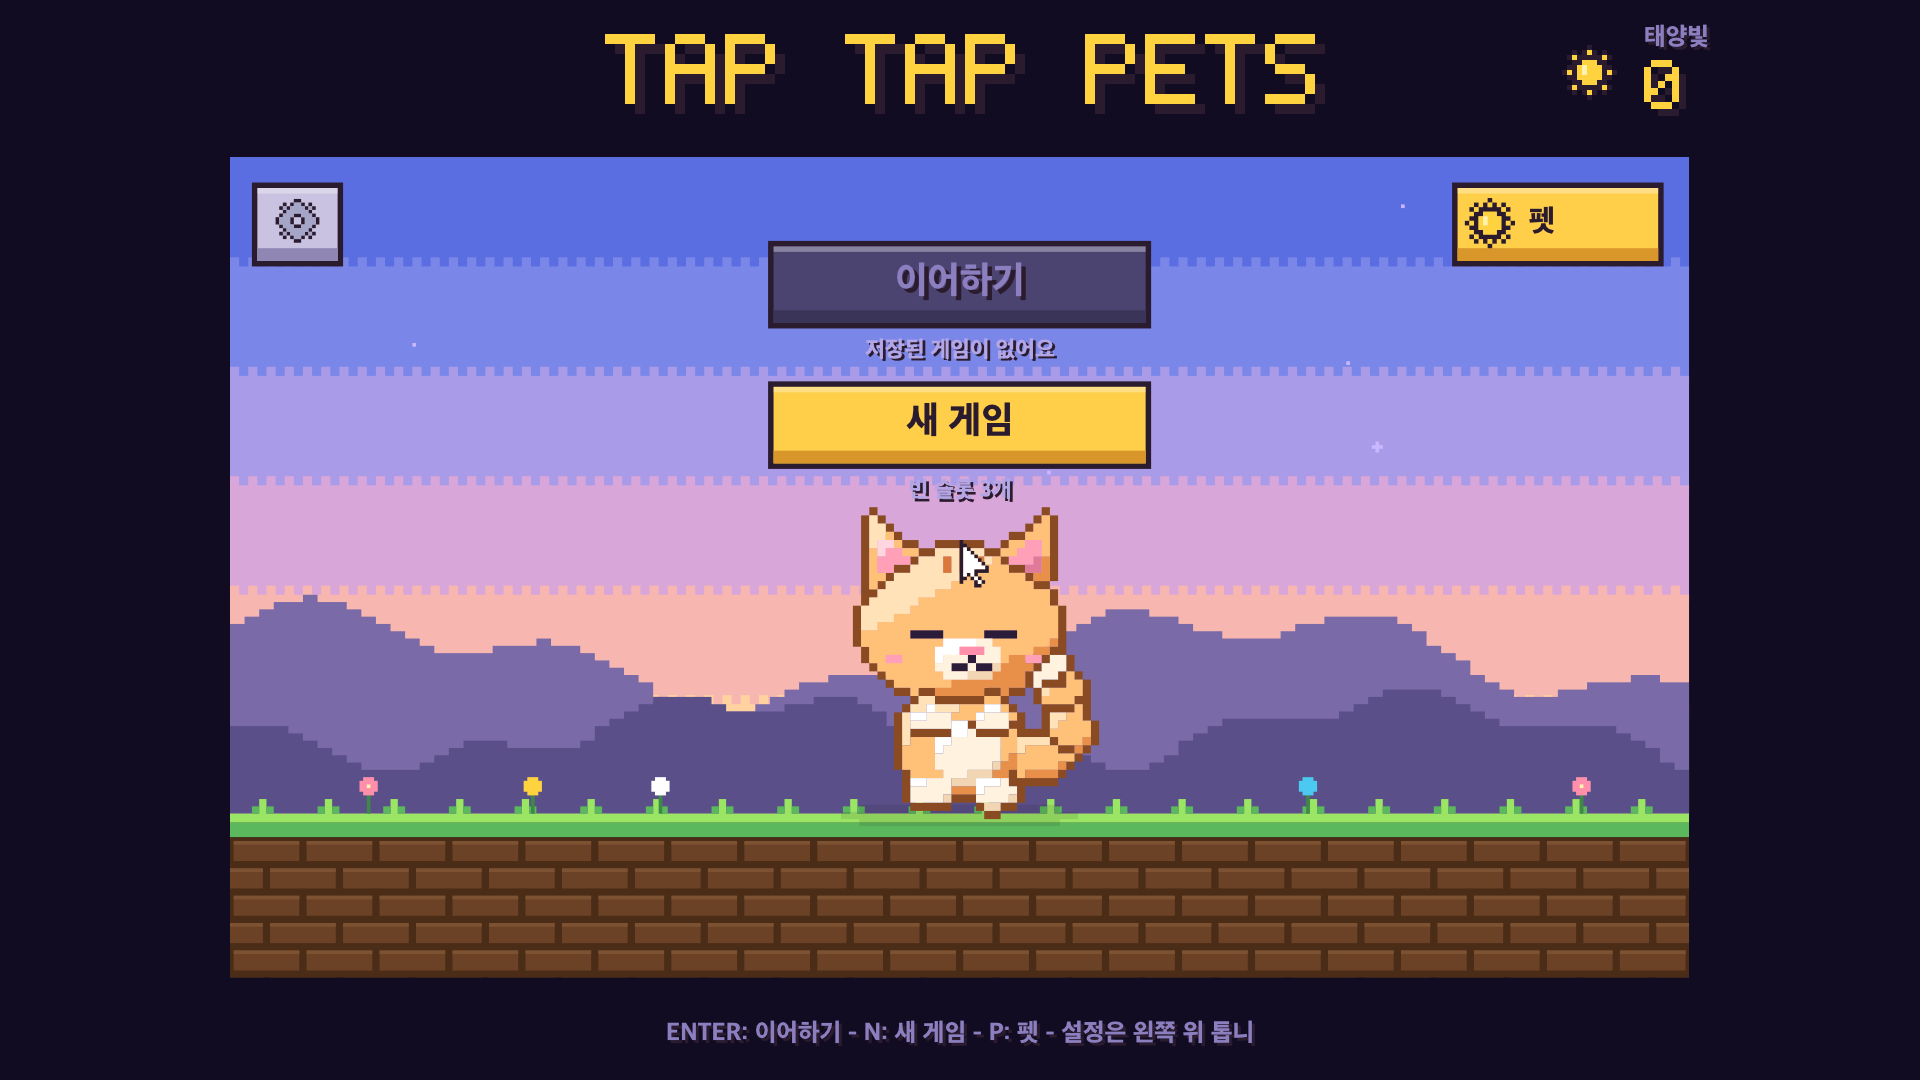
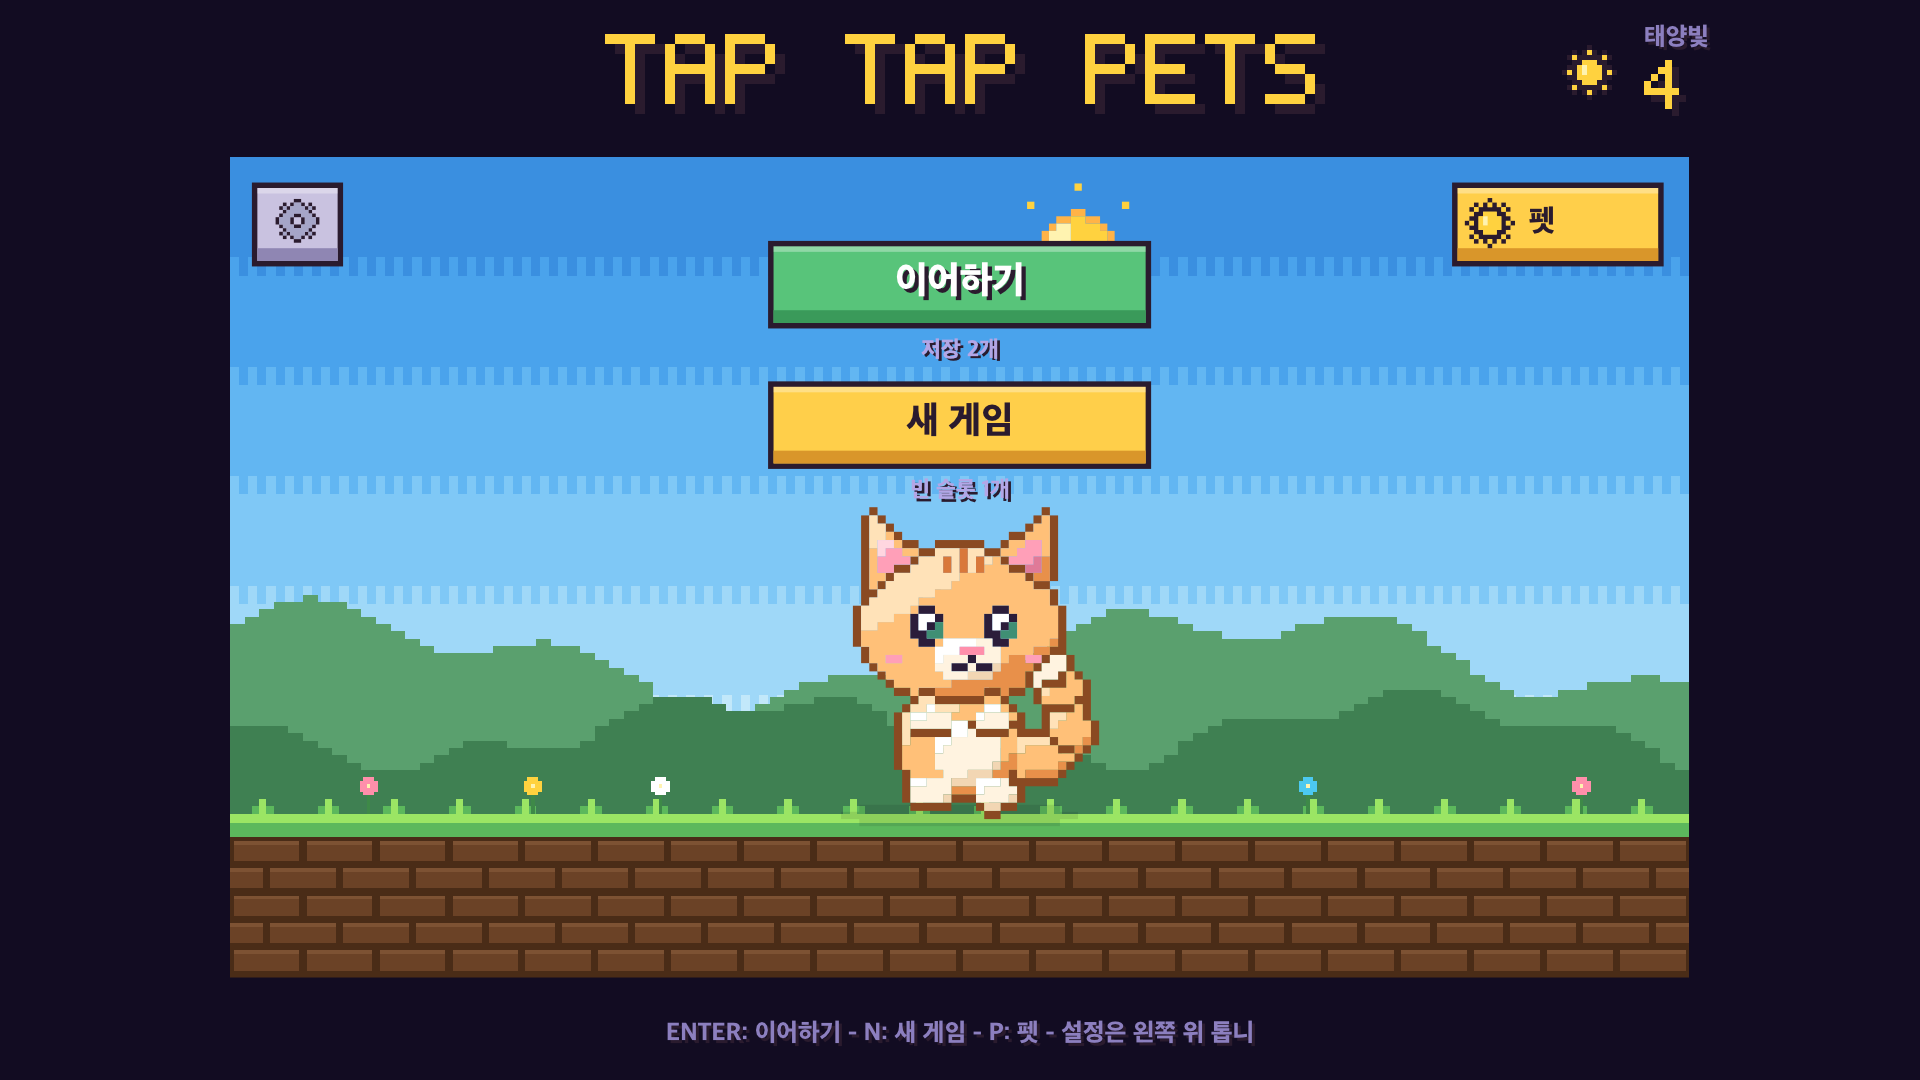
docs(readme): 스크린샷을 지금 게임으로 다시 찍기
11/11에 찍은 스크린샷이라 탭 2배, 자동 속도 도구, 코인 네 자리, 펫 둘레로 퍼지는 +N이
안 보였어요.

- sheets/readme-shots.tsx: 저장 데이터에서 게임 로직(step)으로 실제로 진행한 상태를
  Screen으로 그려요. raea render sheets/readme-shots.tsx --at 0,1,2 로 다시 찍을 수 있어요.
- 홈, 플레이(초당 10번 지급, 탭 한 번), 상점(도구 세 개, 방울 최대) 세 장.
  옷장 사진 대신 상점 사진을 넣고 closet.png는 뺐어요.

diff --git a/sheets/readme-shots.tsx b/sheets/readme-shots.tsx
@@ -1,0 +1,29 @@
+// The README's screenshots (docs/images): the game played by its own step from a save, then drawn whole by Screen.
+//   raea render sheets/readme-shots.tsx --at 0,1,2 -o out/readme-shots/   (0 home, 1 play, 2 shop)
+import { Composition, registerRoot, useCurrentFrame } from "raea";
+import { makeInitial, type Game } from "../game";
+import { CONTINUE_BTN, SLOT_CARDS } from "../layout";
+import { DEFAULT_SETTINGS, freshSlot, type Loaded, type SlotData } from "../state";
+import { drive, type Cue } from "../tests/drive";
+import { Screen } from "../ui/screen";
+
+const cat: SlotData = {
+  ...freshSlot("cat"), coins: 1_234_567_890, earned: 9_876_543_210, tools: [20, 18, 9],
+  owned: ["ribbon", "crown", "tee", "shades"], wear: { hat: "crown", body: "tee", acc: null }, playFrames: 3600 * 90,
+};
+const mochi: SlotData = { ...freshSlot("mochi"), coins: 4_200, tools: [6, 5, 1], playFrames: 3600 * 12 };
+const loaded: Loaded = { account: { sun: 4, sunFrames: 30_000, pets: ["cat", "mochi"] }, slots: [cat, mochi, null], settings: DEFAULT_SETTINGS, migrated: false, firstRun: false };
+
+/** the home screen, then slot 1 played a while (ten payouts a second, one tap), then its shop open */
+const home = drive(makeInitial(loaded), {}, 10);
+const cues: Record<number, Cue> = { 5: { click: CONTINUE_BTN }, 15: { click: SLOT_CARDS[0] }, 86: { keys: [" "] } };
+const play = drive(makeInitial(loaded), cues, 100);
+const shop = drive(play, { 100: { keys: ["s"] } }, 12, 100);
+
+const SHOTS: [Game, number][] = [[home, 9], [play, 99], [shop, 111]];
+
+function Shots() {
+  const [g, frame] = SHOTS[Math.min(SHOTS.length - 1, useCurrentFrame())];
+  return <Screen g={{ ...g, cursor: null }} frame={frame} />;
+}
+registerRoot(() => <Composition id="readme-shots" component={Shots} width={1920} height={1080} fps={60} durationInFrames={SHOTS.length} />);

diff --git a/README.md b/README.md
@@ -20,7 +20,7 @@
 <p align="center">
   <img src="docs/images/home.png" width="32%" alt="홈 화면">
   <img src="docs/images/play.png" width="32%" alt="플레이 화면">
-  <img src="docs/images/closet.png" width="32%" alt="옷장에서 입어 보기">
+  <img src="docs/images/shop.png" width="32%" alt="상점: 펫마다 도구 세 개">
 </p>
 
 ## 내려받기
@@ -130,6 +130,6 @@ ditto -c -k --keepParent "out/Tap Tap Pets.app" "out/Tap Tap Pets.zip"
 | `media/` | 효과음, 배경음악(`media/bgm`), 앱 아이콘, 배경 그림(`media/bg`) |
 | `sfx.mjs`, `bgm.mjs`, `music.ts` | 효과음과 배경음악을 만드는 스크립트(`node bgm.mjs`), 음악 루프 길이 |
 | `ui/scenery.ts`, `tools/` | 하늘·언덕·땅 그림 데이터와, 그걸 `media/bg` PNG로 만드는 도구(`bun tools/scenery.ts`) |
-| `sheets/` | 디자인 확인용 시트 |
+| `sheets/` | 디자인 확인용 시트, README 스크린샷(`raea render sheets/readme-shots.tsx --at 0,1,2`) |
 | `tests/` | `bun test` 테스트 |
 | `docs/superpowers/` | 설계 문서와 구현 계획 |
